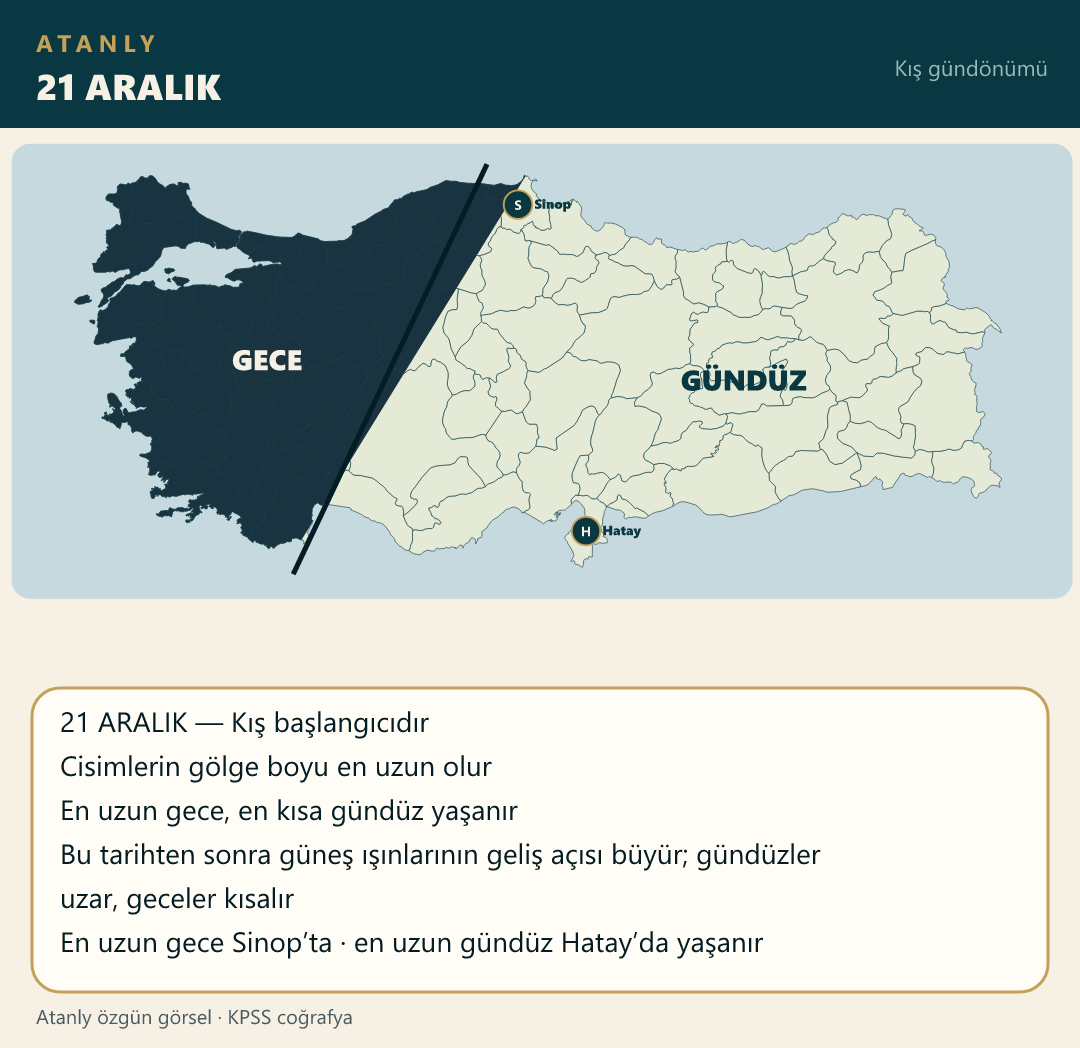
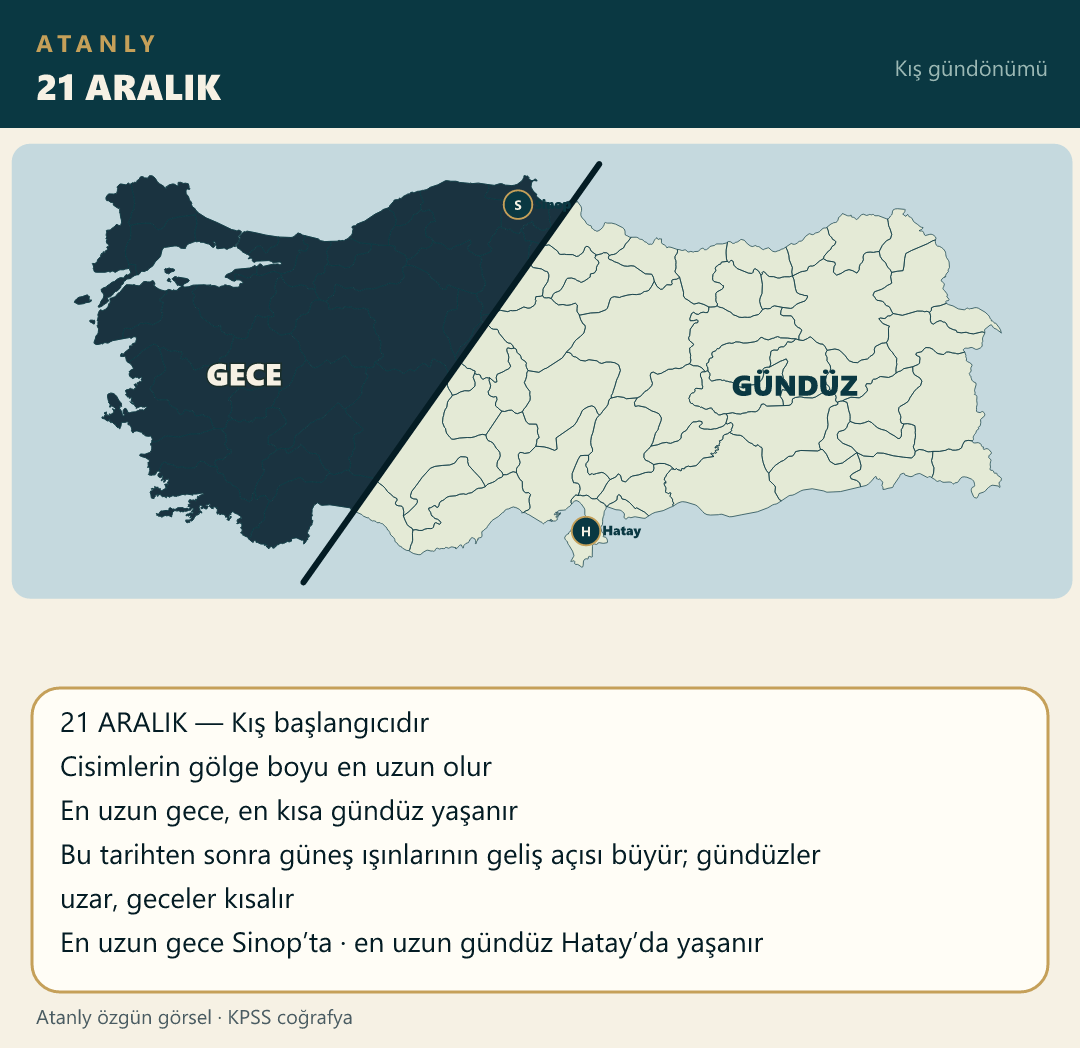
Align the December 21 night line with a single straight terminator.

Changed region(s): [[0.275, 0.1527, 0.55, 0.5496], [0.6111, 0.3359, 0.7944, 0.3969], [0.1833, 0.3359, 0.275, 0.3664]]

diff --git a/scripts/build-atanly-maps.js b/scripts/build-atanly-maps.js
@@ -874,11 +874,11 @@ function main() {
     writePng(path.join(IMG, "21 haziran.png"), frame(78 + MAP_BLOCK_H + 16 + juneFacts.h + 28, "21 HAZİRAN", "Yaz gündönümü", mapBlock(provs, juneExtra) + juneFacts.svg));
 
     var decExtra = landPaths(provs) +
-        '<clipPath id="nightD"><polygon points="0,0 500,0 240,422 0,422"/></clipPath>' +
+        '<clipPath id="nightD"><polygon points="-20,-20 560,-20 560,8 270,418 -20,430"/></clipPath>' +
         '<g clip-path="url(#nightD)">' + landPaths(provs).replace(/fill="#E4EAD6"/g, 'fill="' + C.night + '"') + "</g>" +
-        '<line x1="450" y1="8" x2="260" y2="410" stroke="' + C.ink + '" stroke-width="5"/>' +
-        '<text x="200" y="210" font-size="28" font-weight="800" fill="#F6F1E4" font-family="Segoe UI, sans-serif">GECE</text>' +
-        '<text x="640" y="230" font-size="28" font-weight="800" fill="' + C.navy + '" font-family="Segoe UI, sans-serif">GÜNDÜZ</text>' +
+        '<line x1="560" y1="8" x2="270" y2="418" stroke="' + C.ink + '" stroke-width="6" stroke-linecap="round"/>' +
+        '<text x="175" y="225" font-size="30" font-weight="800" fill="#F6F1E4" stroke="#1A2E2B" stroke-width="3" paint-order="stroke" font-family="Segoe UI, sans-serif">GECE</text>' +
+        '<text x="690" y="235" font-size="28" font-weight="800" fill="' + C.navy + '" font-family="Segoe UI, sans-serif">GÜNDÜZ</text>' +
         (function () {
             var s = findProv(provs, "Sinop");
             var h = findProv(provs, "Hatay");

diff --git a/notlar/cografya-1-not.js b/notlar/cografya-1-not.js
@@ -230,7 +230,7 @@ window.cografya_1_notlari = [
 
             <!-- 🗺 HARİTA / RESİM ALANI -->
             <div class="mt-4 overflow-hidden rounded-xl border border-blue-200 dark:border-blue-700/50 bg-white dark:bg-slate-800 p-2">
-                <img src="./src/img/21 aralık.png?v=9" alt="21 Aralık Haritası" class="w-full h-auto rounded-lg object-contain" loading="lazy">
+                <img src="./src/img/21 aralık.png?v=10" alt="21 Aralık Haritası" class="w-full h-auto rounded-lg object-contain" loading="lazy">
             </div>
             <!-- 🗺 HARİTA / RESİM ALANI -->
             <div class="mt-4 overflow-hidden rounded-xl border border-blue-200 dark:border-blue-700/50 bg-white dark:bg-slate-800 p-2">

diff --git a/index.html b/index.html
@@ -99,7 +99,7 @@
     <script src="notlar/tarih-14-not.js?v=3"></script>
     <script src="notlar/tarih-15-not.js?v=3"></script>
     <script src="notlar/tarih-16-not.js?v=1"></script>
-    <script src="notlar/cografya-1-not.js?v=11"></script>
+    <script src="notlar/cografya-1-not.js?v=12"></script>
     <script src="notlar/cografya-2-not.js?v=15"></script>
     <script src="notlar/cografya-3-not.js?v=15"></script>
     <script src="notlar/cografya-4-not.js?v=9"></script>
